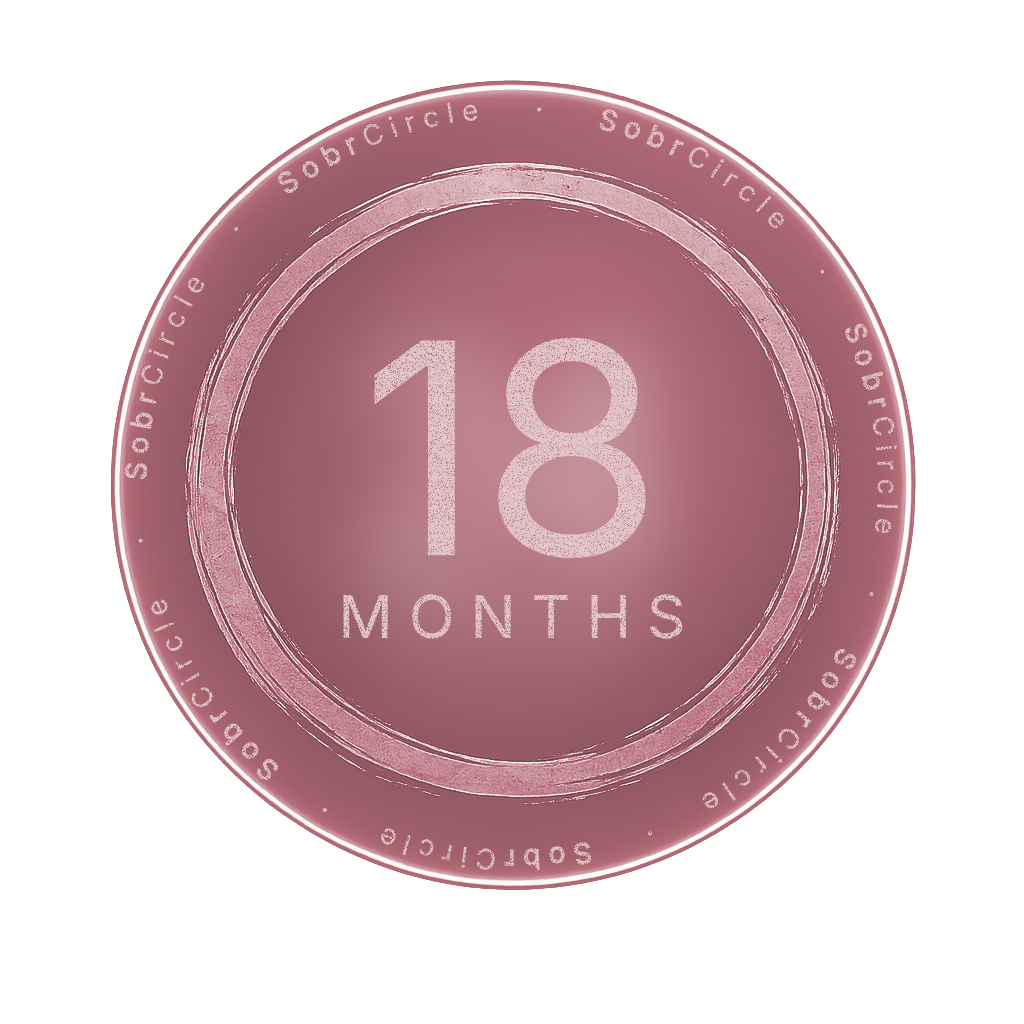
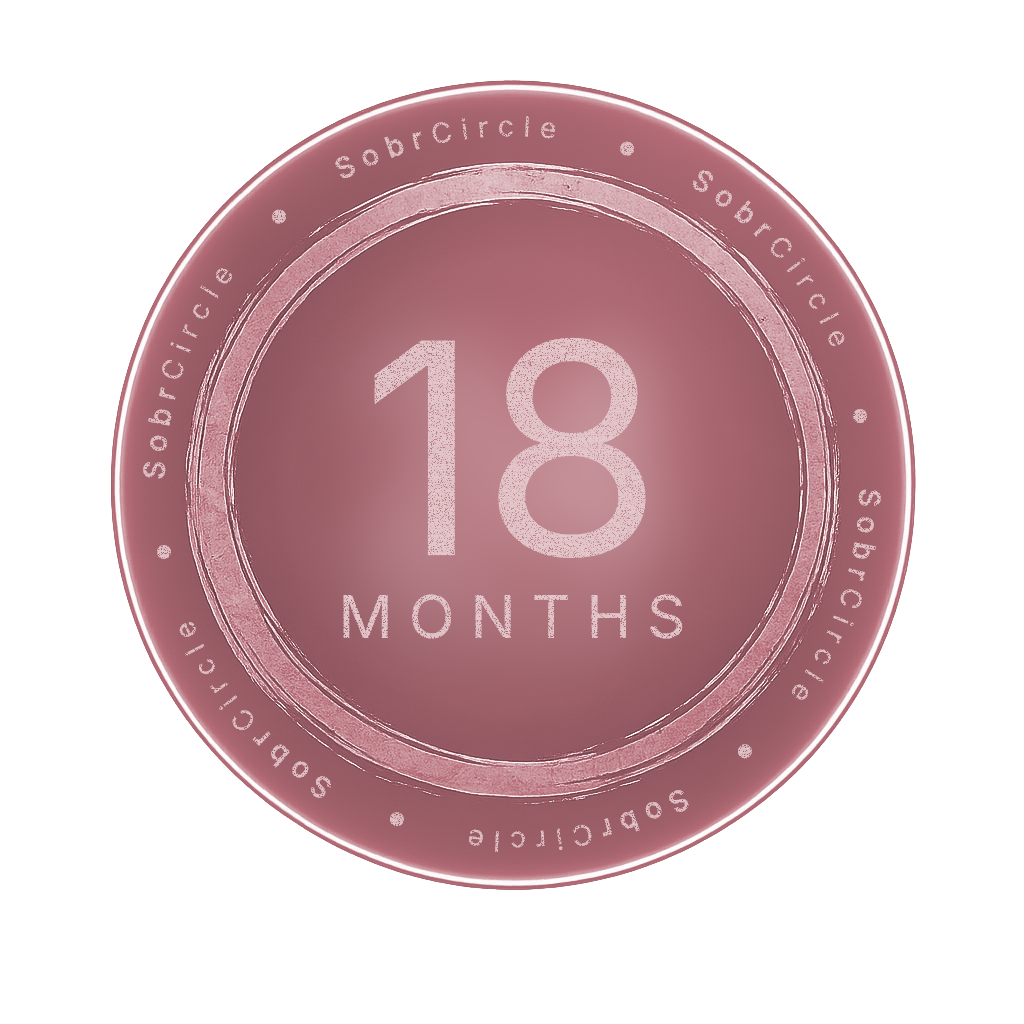
Pull SobrCircle further in, render separator dots larger
Radius drops 376 → 358. Separator becomes a dedicated segment with its
own font size (40px bullet vs 28px text), so the dots between repeats
read as a clear bigger marker rather than blending in. Drops to 6
repeats since the dots are wider.

https://claude.ai/code/session_01TqmVcPLJNZuf7Q6XCPWgNk

diff --git a/scripts/generate-badges.ts b/scripts/generate-badges.ts
@@ -270,17 +270,22 @@ function drawMicroTypography(ctx: SKRSContext2D, hex: string) {
   const lb = Math.round(b + (255 - b) * k)
   const fill = `rgba(${lr}, ${lg}, ${lb}, 0.95)`
 
-  // In the clean tinted band, pulled in slightly so the top of the
-  // text doesn't kiss the bright white halo line.
-  const radius = 376
+  // In the clean tinted band, pulled in further from the white halo
+  // line. Dots between SobrCircle repeats are rendered larger via a
+  // dedicated segment type so they read as a clear separator.
+  const radius = 358
   const fontSize = 28
+  const dotSize = 40
 
-  const segments: { text: string; weight: number }[] = []
-  const repeats = 7
+  type Seg = { text: string; weight: number; size: number }
+  const segments: Seg[] = []
+  const repeats = 6
   for (let i = 0; i < repeats; i++) {
-    segments.push({ text: 'Sobr',   weight: 700 })
-    segments.push({ text: 'Circle', weight: 400 })
-    segments.push({ text: '   ·   ', weight: 400 })
+    segments.push({ text: 'Sobr',   weight: 700, size: fontSize })
+    segments.push({ text: 'Circle', weight: 400, size: fontSize })
+    segments.push({ text: '   ',    weight: 400, size: fontSize })
+    segments.push({ text: '•',      weight: 700, size: dotSize })
+    segments.push({ text: '   ',    weight: 400, size: fontSize })
   }
 
   // Render the ring text onto its own canvas so we can run the same
@@ -288,13 +293,13 @@ function drawMicroTypography(ctx: SKRSContext2D, hex: string) {
   const layer = createCanvas(SIZE, SIZE)
   const lctx = layer.getContext('2d')
 
-  const chars: { c: string; w: number; weight: number }[] = []
+  const chars: { c: string; w: number; weight: number; size: number }[] = []
   let totalWidth = 0
   for (const seg of segments) {
-    lctx.font = `${seg.weight} ${fontSize}px Inter`
+    lctx.font = `${seg.weight} ${seg.size}px Inter`
     for (const c of seg.text) {
       const w = lctx.measureText(c).width
-      chars.push({ c, w, weight: seg.weight })
+      chars.push({ c, w, weight: seg.weight, size: seg.size })
       totalWidth += w
     }
   }
@@ -317,7 +322,7 @@ function drawMicroTypography(ctx: SKRSContext2D, hex: string) {
     lctx.save()
     lctx.rotate(angle)
     lctx.translate(0, -radius)
-    lctx.font = `${ch.weight} ${fontSize}px Inter`
+    lctx.font = `${ch.weight} ${ch.size}px Inter`
     lctx.fillText(ch.c, 0, 0)
     lctx.restore()
     angle += charAngle / 2
